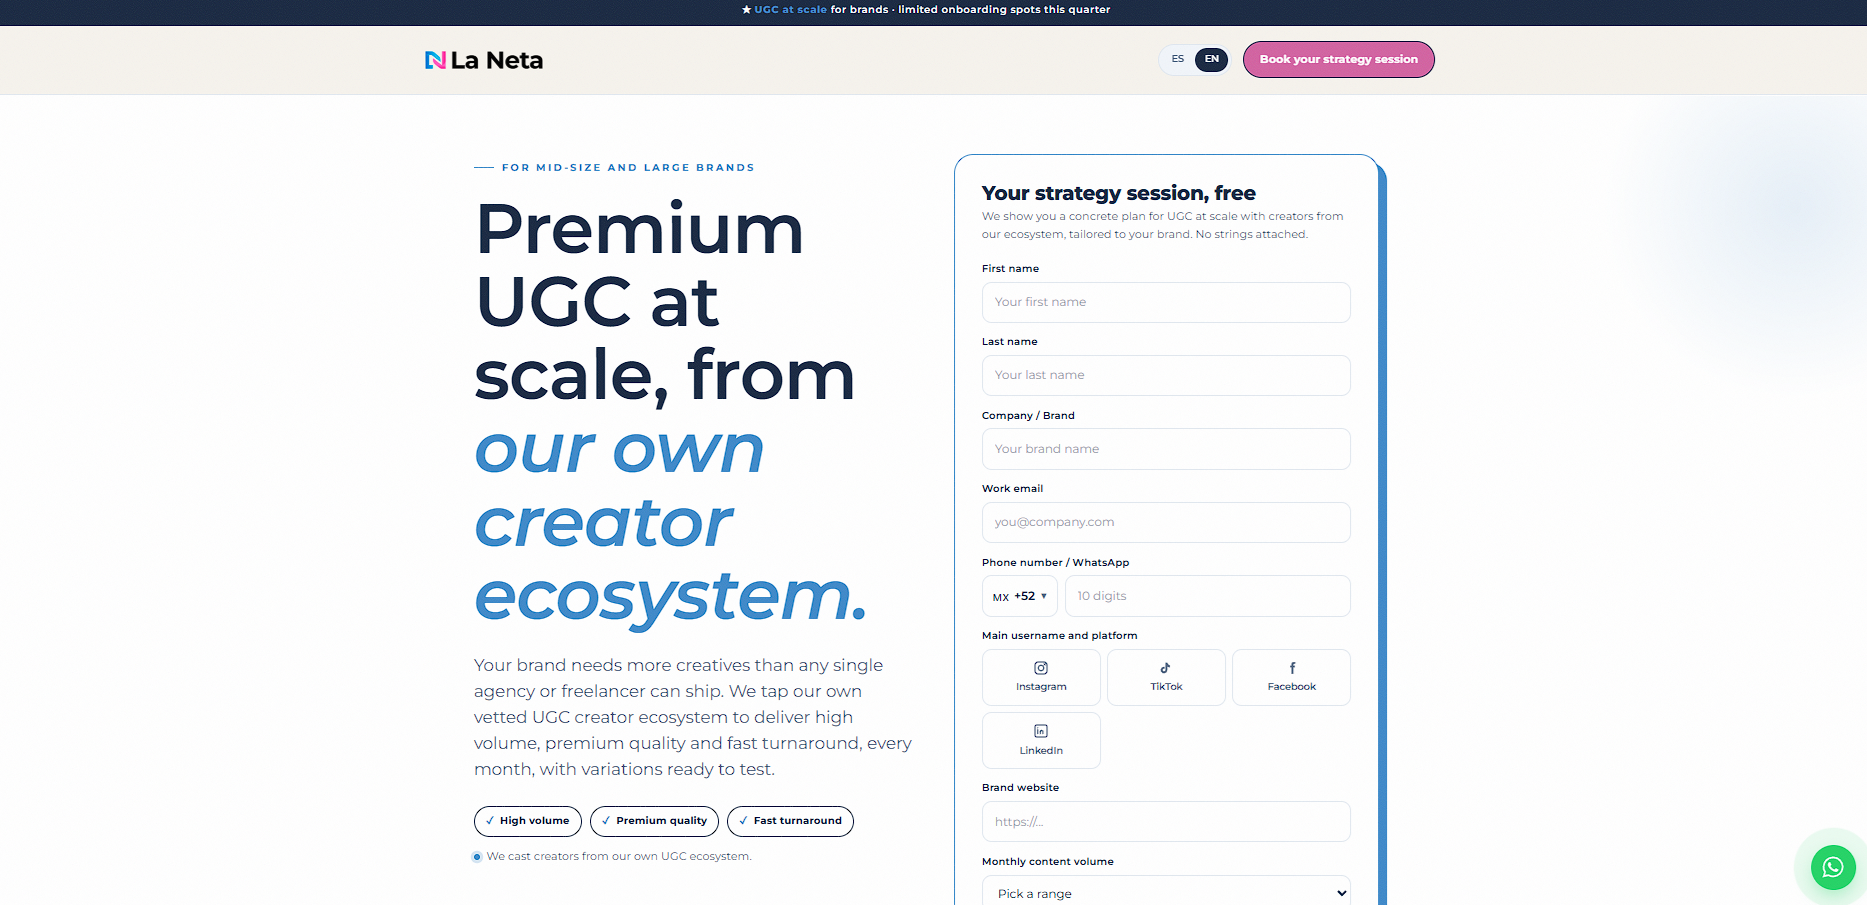
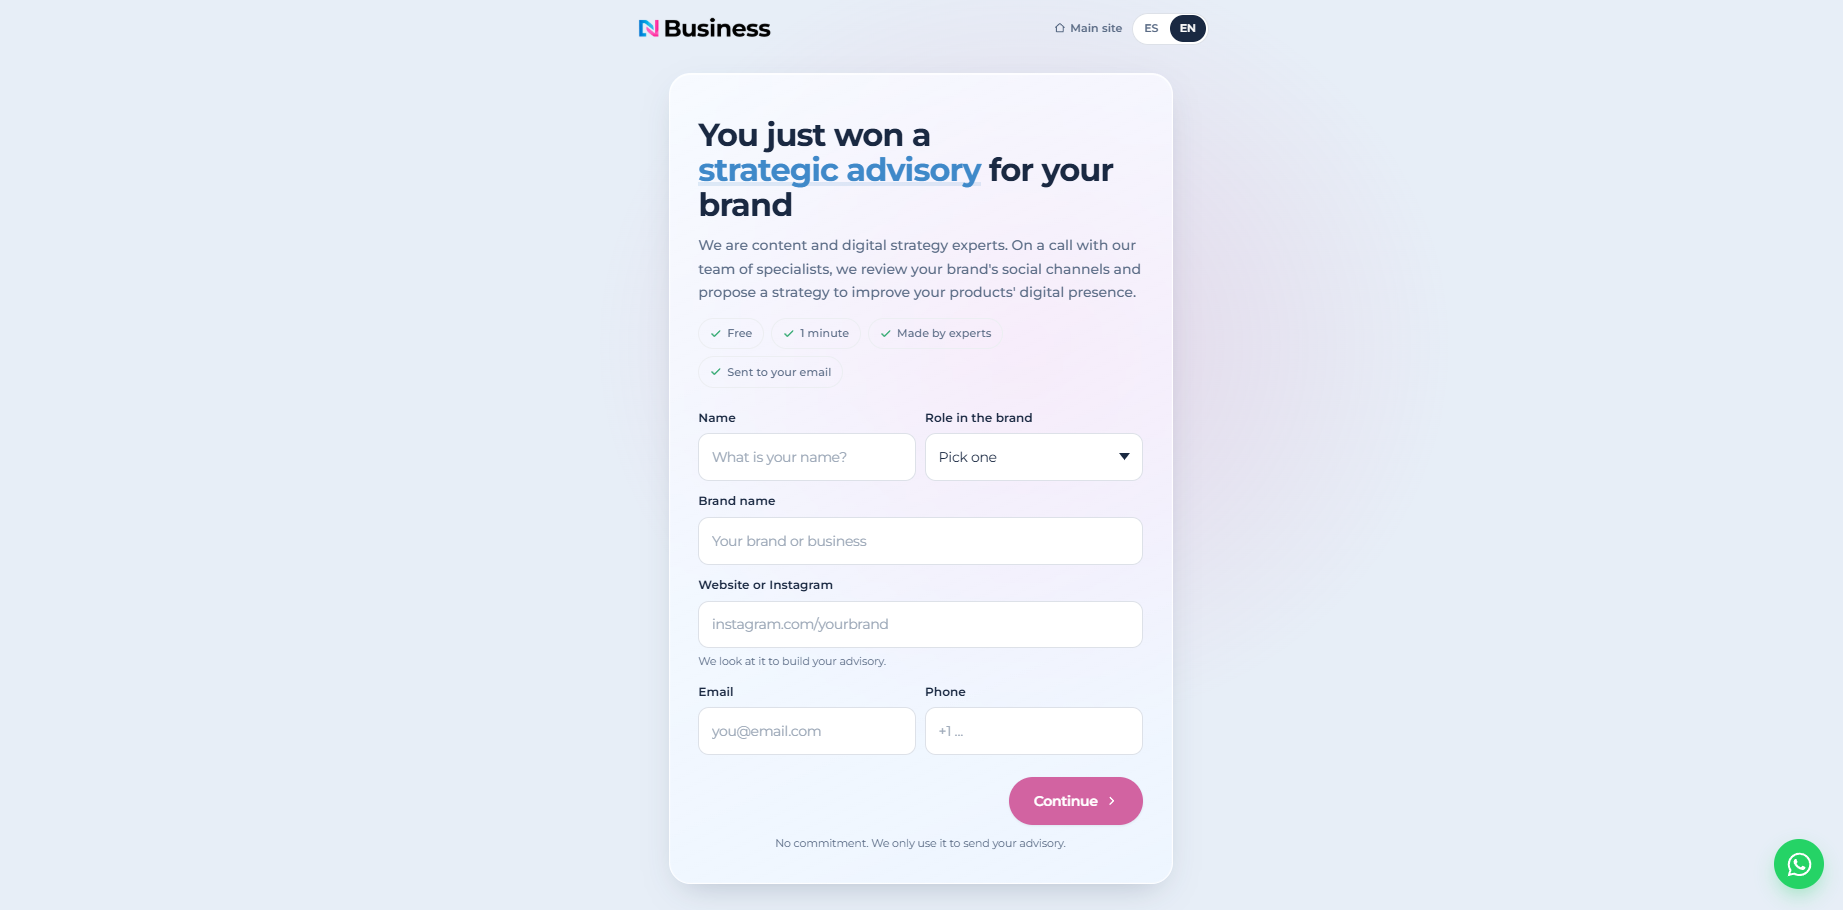
feat(landing): For Creators en nav, For businesses bajo About Us y miniaturas actualizadas
- Header: el link "Elevn Hub" pasa a "For Creators" / "Para Creadores" (i18n en/es,
  nueva key nav.forCreators; el ancla sigue en #elevn).
- App: la sección ForBrands (For businesses & brands) se mueve a justo debajo de
  WhoIsLaNeta (About Us); antes quedaba muy abajo en el scroll.
- Miniaturas de las cards business/ads actualizadas con capturas nuevas de las páginas.

diff --git a/src/components/Header.tsx b/src/components/Header.tsx
@@ -53,11 +53,7 @@ export function Header() {
     pathname === '/the-glitch' ||
     pathname === '/the-hook-hunter'
 
-  const elevnHubLabel = (
-    <span>
-      <span className="font-elevn">Elevn</span> Hub
-    </span>
-  )
+  const forCreatorsLabel = t('nav.forCreators')
 
   const SERVICES_PAGE_SECTION_LINKS = [
     { href: '#problems-vs-solutions', label: t('nav.solutions') },
@@ -69,13 +65,13 @@ export function Header() {
 
   const HOME_PAGE_SECTION_LINKS = [
     { href: '#who-is-la-neta', label: t('nav.aboutUs') },
-    { href: '#elevn', label: elevnHubLabel },
+    { href: '#elevn', label: forCreatorsLabel },
     { href: '#for-brands', label: t('nav.forBrands') },
   ]
 
   const NAV_LINKS = [
     { href: '#who-is-la-neta', label: t('nav.aboutUs') },
-    { href: '#elevn', label: elevnHubLabel },
+    { href: '#elevn', label: forCreatorsLabel },
     { href: '#for-brands', label: t('nav.forBrands') },
   ]
 

diff --git a/src/App.tsx b/src/App.tsx
@@ -22,10 +22,11 @@ function App() {
             <>
               <HeroSection />
               <WhoIsLaNeta />
+              {/* For businesses & brands justo debajo de About Us (antes estaba muy abajo). */}
+              <ForBrands />
               {/* B2B: Partnerships right after main offer = proof before second pillar (Elevn) and CTA */}
               <PartnershipsAlliances />
               <CreatorSupplyEcosystem />
-              <ForBrands />
               {/*<BranchOfficeLocations />*/}
               <div id="lets-work-together" className="scroll-mt-24 bg-[var(--laneta-bg)] py-16 md:py-20">
                 <LetsWorkTogetherSection variant="global" />
